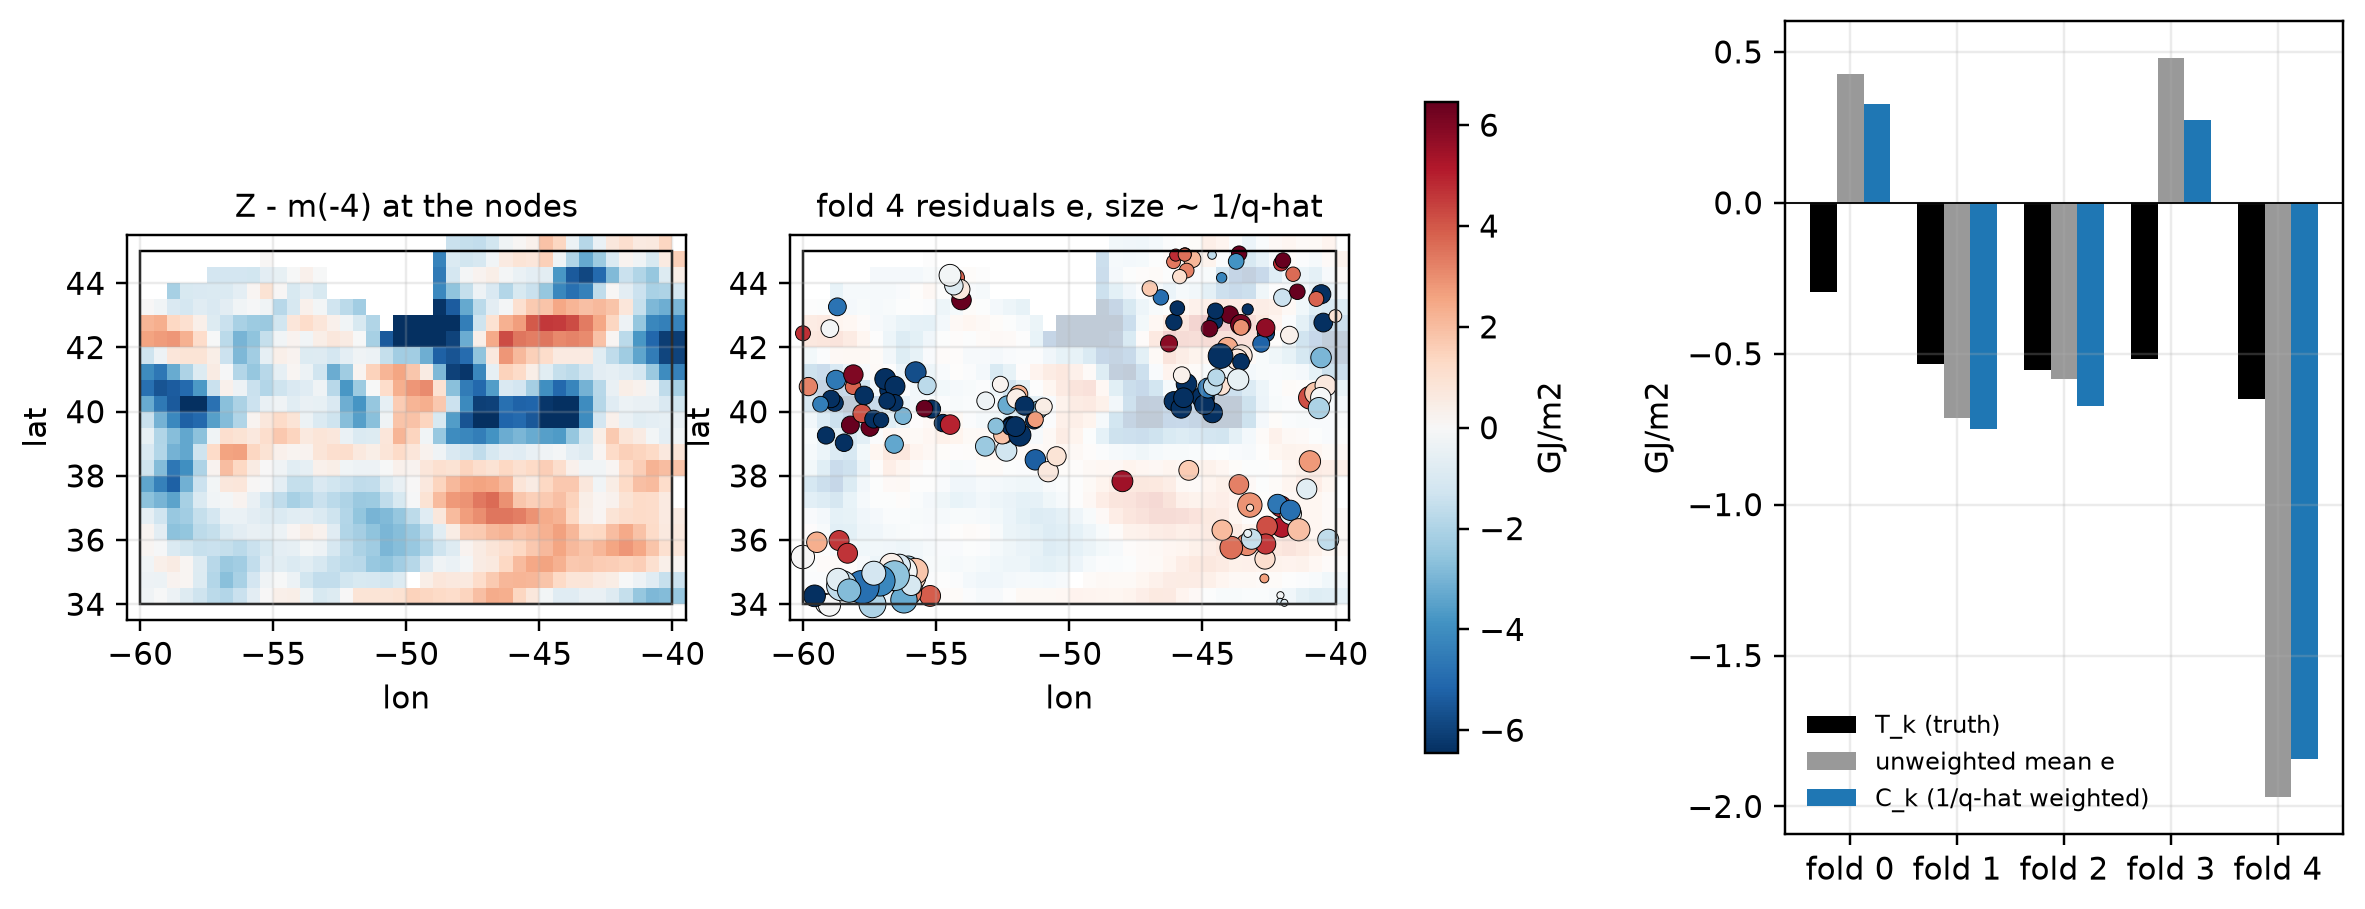
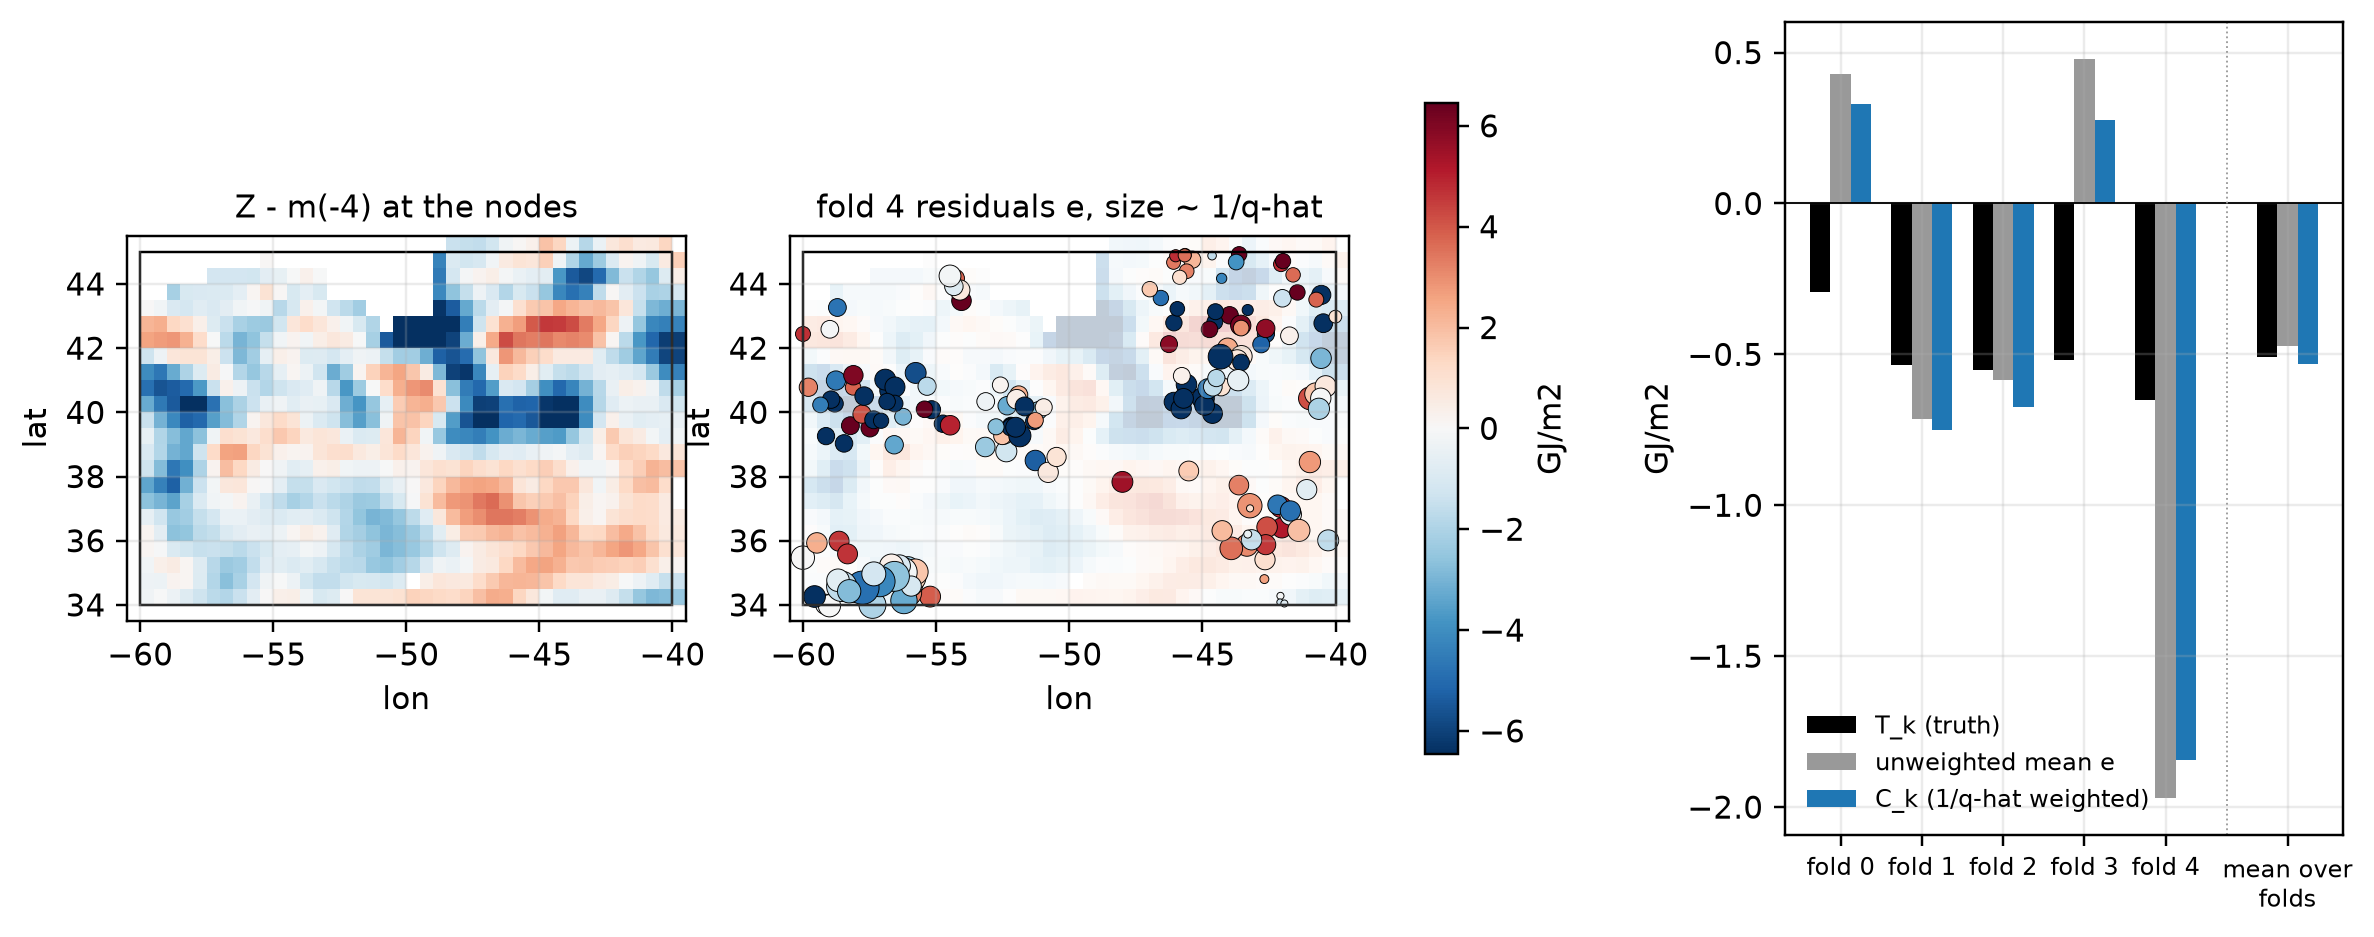
glorys_chain: quadrature and T_k in methods, fold-count rationale, deployment and profile maps, DR-trade-off explanation, fold-averaged correction errors; drop multi-year figure

Changed region(s): [[0.0, 0.0924, 0.7099, 0.8317], [0.7099, 0.0308, 1.0, 0.9857]]

diff --git a/code/osim/chain.py b/code/osim/chain.py
@@ -714,6 +714,54 @@ def plot_advection(rep, n_floats=80, figsize=(8.5, 7.2)):
                               years=list(range(2010, 2020)), subset_seed=rep)
 
 
+def plot_deployments(figsize=(8.5, 7.2)):
+    """The deployment pool: every launch position, coloured by launch year, on the domain base map."""
+    import matplotlib.pyplot as plt
+    import matplotlib as mpl
+    from osim import report as rp
+    d, yr = pool(), list(range(YEARS[0] - 5, YEARS[-1] + 1))
+    cmap = plt.get_cmap("turbo", len(yr))
+    norm = mpl.colors.BoundaryNorm(np.arange(yr[0], yr[-1] + 2) - 0.5, cmap.N)
+    fig, ax, pc, _ = rp._domain_base(BOXES, figsize)
+    ax.scatter(d.lon, d.lat, c=d.year, cmap=cmap, norm=norm, s=14, edgecolor="k", linewidth=0.25, transform=pc,
+               zorder=3)
+    fig.colorbar(mpl.cm.ScalarMappable(norm=norm, cmap=cmap), ax=ax, ticks=yr, shrink=0.8, pad=0.02,
+                 label="launch year")
+    ax.legend(loc="lower left", fontsize=7, framealpha=0.9)
+    return fig
+
+
+def profile_density(deg=1.0):
+    """Deployed-float profiles of 2015-2019 per replicate, year and deg x deg cell over the velocity domain, all
+    replicates, cached."""
+    f = os.path.join(OUT, f"profile_density_{deg:g}.parquet")
+    if os.path.exists(f):
+        return pd.read_parquet(f)
+    out = []
+    for fn in rep_files():
+        p = pd.read_parquet(fn, columns=["time", "lat", "lon"])
+        p = p[p.time.dt.year.isin(YEARS)]
+        out.append(pd.DataFrame(dict(lat=(np.floor(p.lat / deg) + 0.5) * deg, lon=(np.floor(p.lon / deg) + 0.5) * deg))
+                   .value_counts().rename("n"))
+    d = pd.concat(out).groupby(level=[0, 1]).sum().div(len(out) * len(YEARS)).rename("n").reset_index()
+    d.to_parquet(f)
+    return d
+
+
+def plot_profile_density(d, deg=1.0, figsize=(8.5, 7.2)):
+    """Mean profiles per replicate and year in each cell, 2015-2019, log colour scale, on the domain base map."""
+    from matplotlib.colors import LogNorm
+    from osim import report as rp
+    fig, ax, pc, _ = rp._domain_base(BOXES, figsize)
+    la, lo = (np.arange(d[c].min(), d[c].max() + deg / 2, deg) for c in ("lat", "lon"))
+    g = d.pivot(index="lat", columns="lon", values="n").reindex(index=la, columns=lo, method="nearest", tolerance=deg / 4)
+    m = ax.pcolormesh(lo, la, g.to_numpy(), cmap="viridis", transform=pc, norm=LogNorm(0.05, np.nanmax(g.to_numpy())),
+                      zorder=1, shading="nearest")
+    fig.colorbar(m, ax=ax, shrink=0.8, pad=0.02, label=f"profiles per year per {deg:g} deg cell (mean over replicates)")
+    ax.legend(loc="lower left", fontsize=7, framealpha=0.9)
+    return fig
+
+
 def plot_intensity_grid(nq=None, figsize=(12, 13)):
     """Quarterly-mean design intensity q-hat = sum_c N_c q-hat_c, years by quarters, relative to its
     area- and day-weighted mean over A u B in that year."""
@@ -769,35 +817,45 @@ def plot_dr_example(nd, pf, fm, k, box="boxB", figsize=(13, 4.8)):
         (la0, la1), (lo0, lo1) = cfg.BOXES[box]["lat_bounds"], cfg.BOXES[box]["lon_bounds"]
         a.set(xlim=(lo0 - 0.5, lo1 + 0.5), ylim=(la0 - 0.5, la1 + 0.5))
     f = fm[fm.box == box].sort_values("fold")
-    x = np.arange(len(f))
+    f = pd.concat([f, f[["T", "e_mean", "C"]].mean().to_frame().T.assign(fold="mean")], ignore_index=True)
+    x = np.arange(len(f)) + np.r_[np.zeros(len(f) - 1), 0.5]
     for dx, c, lab, col in ((-0.25, "T", "T_k (truth)", "k"), (0, "e_mean", "unweighted mean e", "#999999"),
                             (0.25, "C", "C_k (1/q-hat weighted)", "#1f77b4")):
         ax[2].bar(x + dx, f[c], width=0.25, color=col, label=lab)
     ax[2].axhline(0, color="k", lw=0.6)
-    ax[2].set_xticks(x, [f"fold {i}" for i in f.fold])
+    ax[2].axvline(x[-1] - 0.75, color="0.6", lw=0.6, ls=":")
+    ax[2].set_xticks(x, [f"fold {i}" if i != "mean" else "mean over\nfolds" for i in f.fold], fontsize=8)
     ax[2].set_ylabel("GJ/m2")
     ax[2].legend(fontsize=8, frameon=False)
     return fig
 
 
 def plot_corrections(fm, box_lab, figsize=(12, 4.2)):
-    """Over replicates, years and folds: the unweighted residual mean and the Hajek correction C_k against
-    their target T_k."""
+    """Per replicate-year, the fold-averaged map error -T-bar and the errors left after adding the fold-averaged
+    unweighted residual mean or C-bar; the last is the DR error exactly."""
     import matplotlib.pyplot as plt
-    fig, ax = plt.subplots(1, len(box_lab), figsize=figsize)
+    g = fm.groupby(["rep", "box", "year"])[["T", "e_mean", "C"]].mean().reset_index()
+    cols = (("fold maps: -T", "#1f77b4", lambda d: -d["T"]), ("+ unweighted mean e", "#999999", lambda d: d.e_mean - d["T"]),
+            ("+ C (DR)", "#d62728", lambda d: d.C - d["T"]))
+    fig, ax = plt.subplots(1, len(box_lab), figsize=figsize, sharey=True)
+    rng = np.random.default_rng(0)
     for a, b in zip(ax, box_lab):
-        f = fm[fm.box == b]
-        a.plot(f["T"], f.e_mean, ".", color="#999999", ms=2, alpha=0.5, label="unweighted mean e")
-        a.plot(f["T"], f.C, ".", color="#1f77b4", ms=2, alpha=0.5, label="C_k")
-        lo, hi = np.nanquantile(np.r_[f["T"], f.C, f.e_mean], [0.005, 0.995])
-        a.plot([lo, hi], [lo, hi], "k", lw=0.8)
-        a.set(xlim=(lo, hi), ylim=(lo, hi), xlabel="T_k = theta - Q(m_{-k}) (GJ/m2)", title=box_lab[b])
-        a.text(0.03, 0.97, f"mean(e - T) = {(f.e_mean - f['T']).mean():+.3f}\nmean(C - T) = {(f.C - f['T']).mean():+.3f}",
-               transform=a.transAxes, va="top", fontsize=8)
-    ax[0].set_ylabel("correction (GJ/m2)")
-    ax[0].legend(fontsize=8, frameon=False, loc="lower right", markerscale=4)
+        d = g[g.box == b]
+        for i, (lab, col, fn) in enumerate(cols):
+            v = fn(d).to_numpy()
+            bp = a.boxplot([v], positions=[i], widths=0.6, patch_artist=True, showfliers=False)
+            bp["boxes"][0].set(facecolor=col, alpha=0.35)
+            a.plot(i + rng.uniform(-0.2, 0.2, len(v)), v, ".", ms=2.5, color=col, alpha=0.4)
+            a.plot(i, v.mean(), "D", color="k", ms=5)
+            a.text(i, 1.0, f"bias {v.mean():+.3f}\nsd {v.std():.3f}", transform=a.get_xaxis_transform(), ha="center",
+                   va="bottom", fontsize=7)
+        a.axhline(0, color="k", lw=0.6)
+        a.set_xticks(range(len(cols)), [c[0] for c in cols], fontsize=8)
+        a.set_title(box_lab[b], pad=24)
+    ax[0].set_ylabel("error (GJ/m2)")
     fig.tight_layout()
     return fig
+
 
 def monthly_maps(maxrep=200):
     """Monthly box means of the full map and the mean field alone per replicate, with the true box-month mean
@@ -845,7 +903,7 @@ EST_COL = {"naive": "#7f7f7f", "hajek": "#9467bd", "mean_field": "#2ca02c", "kri
 
 
 def plot_naive_bias(de, al, box_lab, figsize=(7, 4)):
-    """Naive bias per box and year (+/- 2 MC se) with the pooled-occupancy alignment Cov(w-tilde, Z)."""
+    """Naive bias per box and year (+/- 2 MC se) with the kernel alignment Cov(w-hat, Z)."""
     import matplotlib.pyplot as plt
     nb = de.assign(b=(de.naive - de.theta) * 1e-9).groupby(["box", "year"]).b.agg(["mean", "sem"]).reset_index()
     fig, a = plt.subplots(figsize=figsize)
@@ -853,7 +911,7 @@ def plot_naive_bias(de, al, box_lab, figsize=(7, 4)):
         x, c = nb[nb.box == b], f"C{i}"
         a.errorbar(x.year, x["mean"], 2 * x["sem"], marker="o", color=c, capsize=3, label=f"{box_lab[b]}: naive bias")
         y = al[al.box == b]
-        a.plot(y.year, y.cov_w_occ * 1e-9, "x--", color=c, ms=7, lw=0.8, label=f"{box_lab[b]}: Cov(w, Z)")
+        a.plot(y.year, y.cov_w * 1e-9, "x--", color=c, ms=7, lw=0.8, label=f"{box_lab[b]}: Cov(w-hat, Z)")
     a.axhline(0, color="k", lw=0.6)
     a.set(xlabel="year", ylabel="GJ/m2", xticks=sorted(nb.year.unique()))
     a.legend(fontsize=7, frameon=False, ncol=2)
@@ -901,6 +959,8 @@ def plot_by_year(s, est_lab, box_lab, figsize=(13, 8)):
         ax[0, j].axhline(0, color="k", lw=0.6)
         ax[0, j].set_title(box_lab[b])
         ax[-1, j].set(xlabel="year", xticks=sorted(yr))
+    for a in ax[1:, 0]:
+        a.set_ylim(bottom=0)
     for i, (_, lab) in enumerate(rows):
         ax[i, 0].set_ylabel(lab)
     ax[0, 0].legend(fontsize=8, frameon=False)
